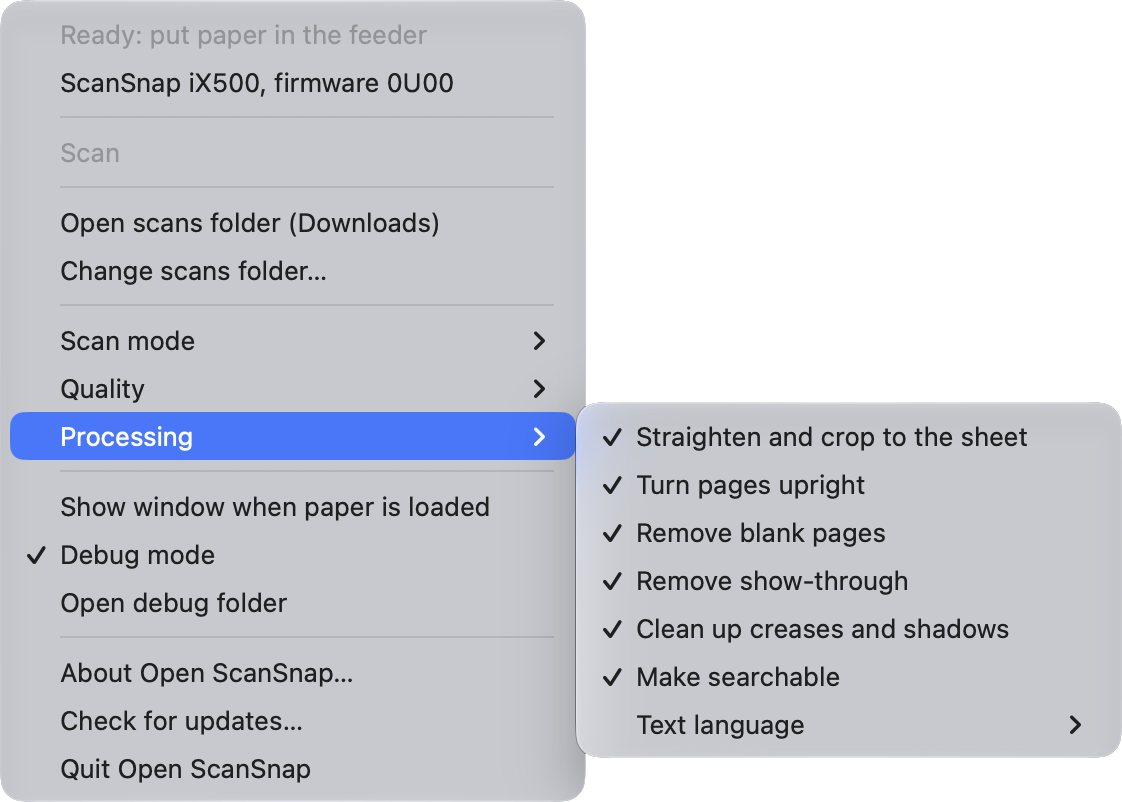
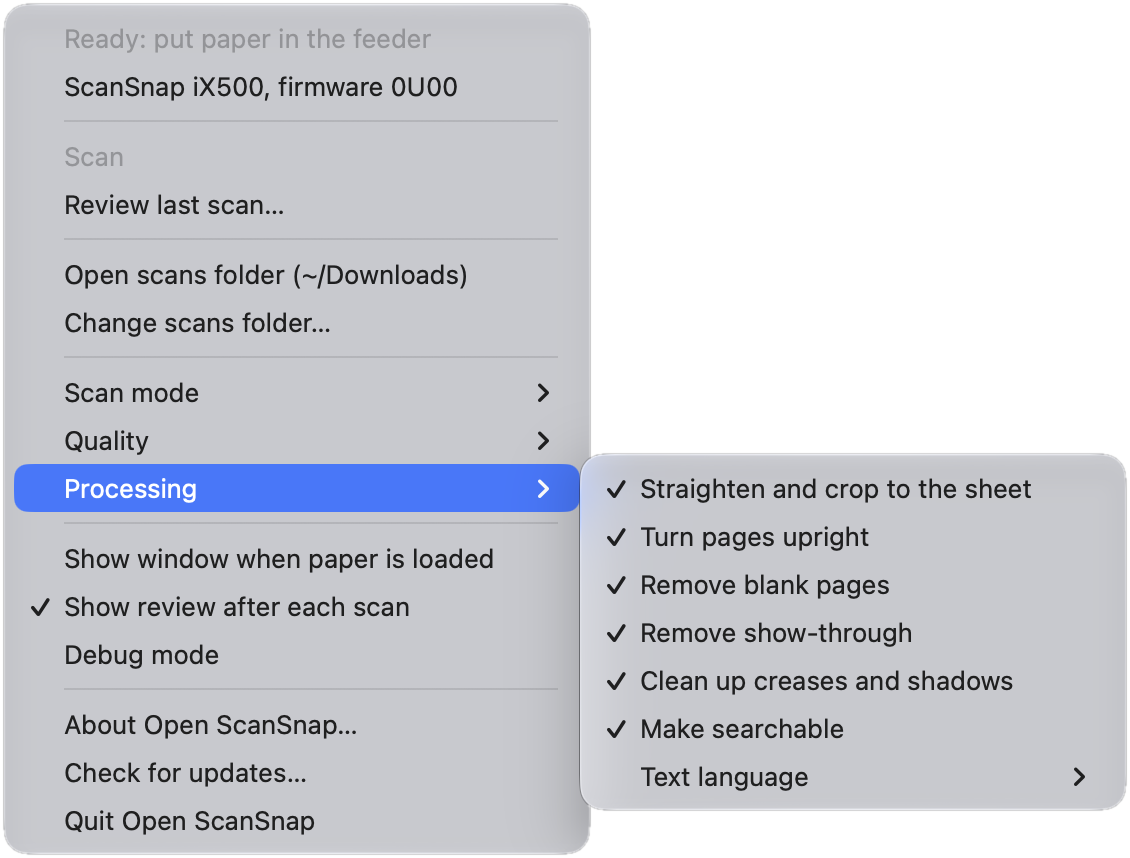
README: today's menu, one screenshot
The menu with Review last scan… and Show review after each scan, and its
Processing options, cut out onto transparency; the outdated screenshots go.

diff --git a/README.md b/README.md
@@ -5,10 +5,7 @@
 Scan from a ScanSnap iX500 on your Mac, over Wi-Fi or USB, without ScanSnap
 Home.
 
-<p>
-  <img src="docs/images/menu-scan-mode.png" width="400" alt="The menu, with its scan modes">
-  <img src="docs/images/menu-processing.png" width="400" alt="The Processing menu">
-</p>
+<p><img src="docs/images/menu-processing.png" width="565" alt="The menu, with its Processing options"></p>
 
 ## Features
 
